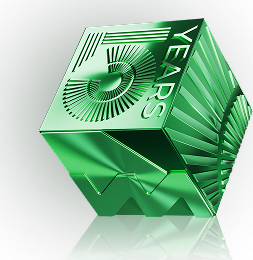
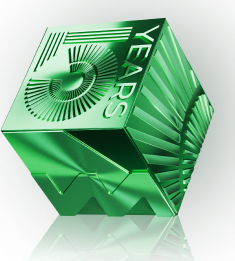
Màn kết quả: thay cube 'cube final 1' + canh lại theo tỉ lệ mới
Cube mới aspect 0.9 (cao/hẹp hơn). Chỉnh width 270->249, bottom 14->13, right
34->55 để giữ đúng visual đã duyệt: đỉnh ở mức GIỜ HỌC HỎI (~510), đáy cùng
mặt sàn poster (738), đè poster ~68px.

diff --git a/app/globals.css b/app/globals.css
@@ -541,9 +541,9 @@ input[type="text"]:focus { border-color: #1f9b46; }
 .up-cube {
   position: absolute;
   z-index: 4;
-  right: 34px;
-  bottom: 14px;
-  width: 270px;
+  right: 55px;
+  bottom: 13px;
+  width: 249px;
   pointer-events: none;
 }
 /* Bóng gương phản chiếu chân poster — canh tâm poster (x965), ngay dưới đáy (y738) */